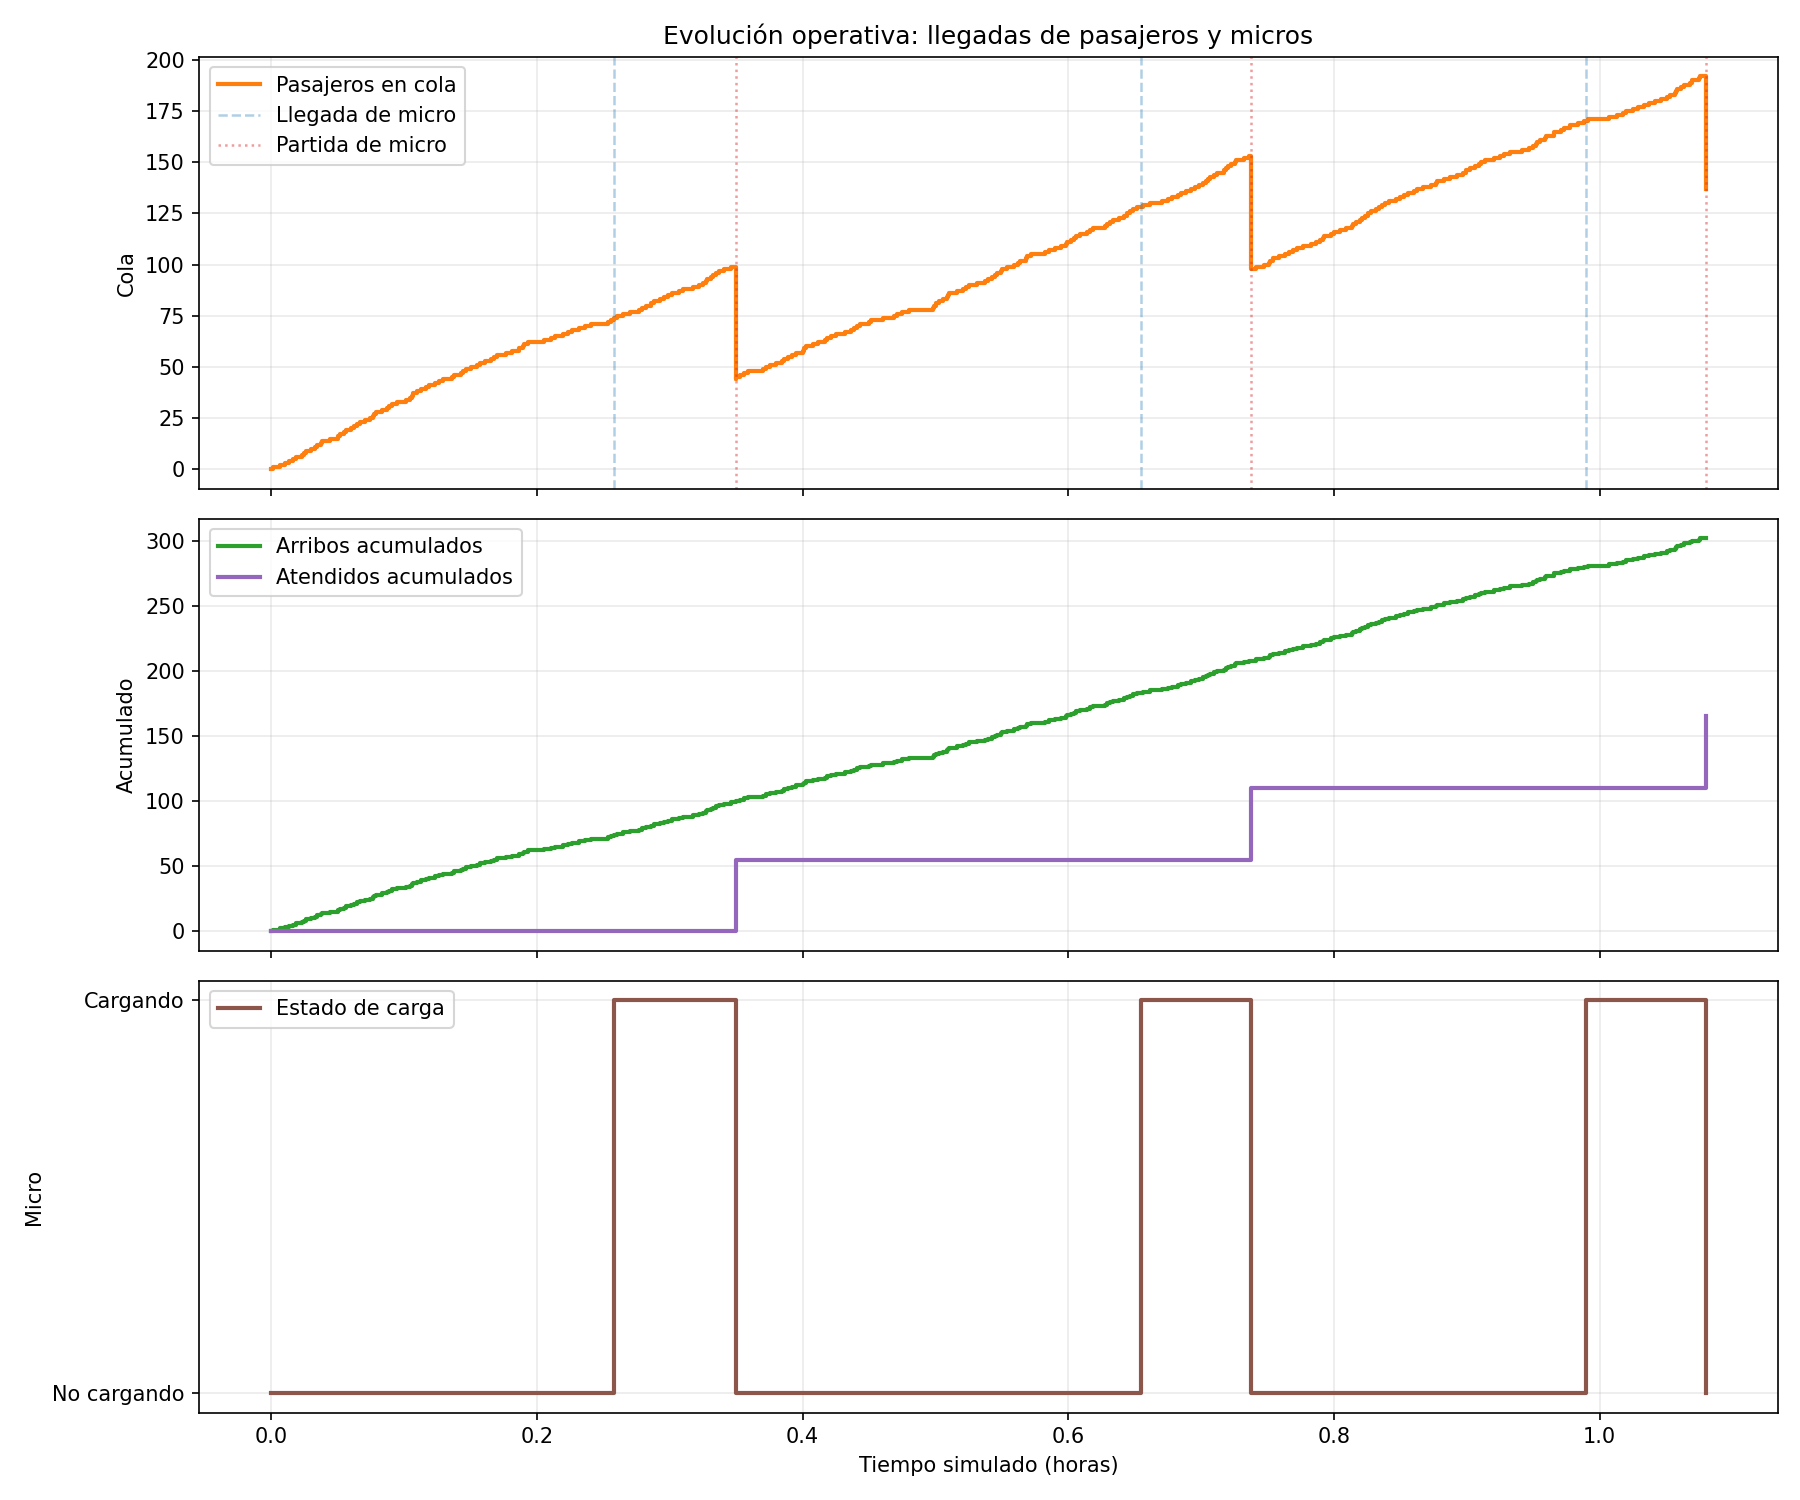
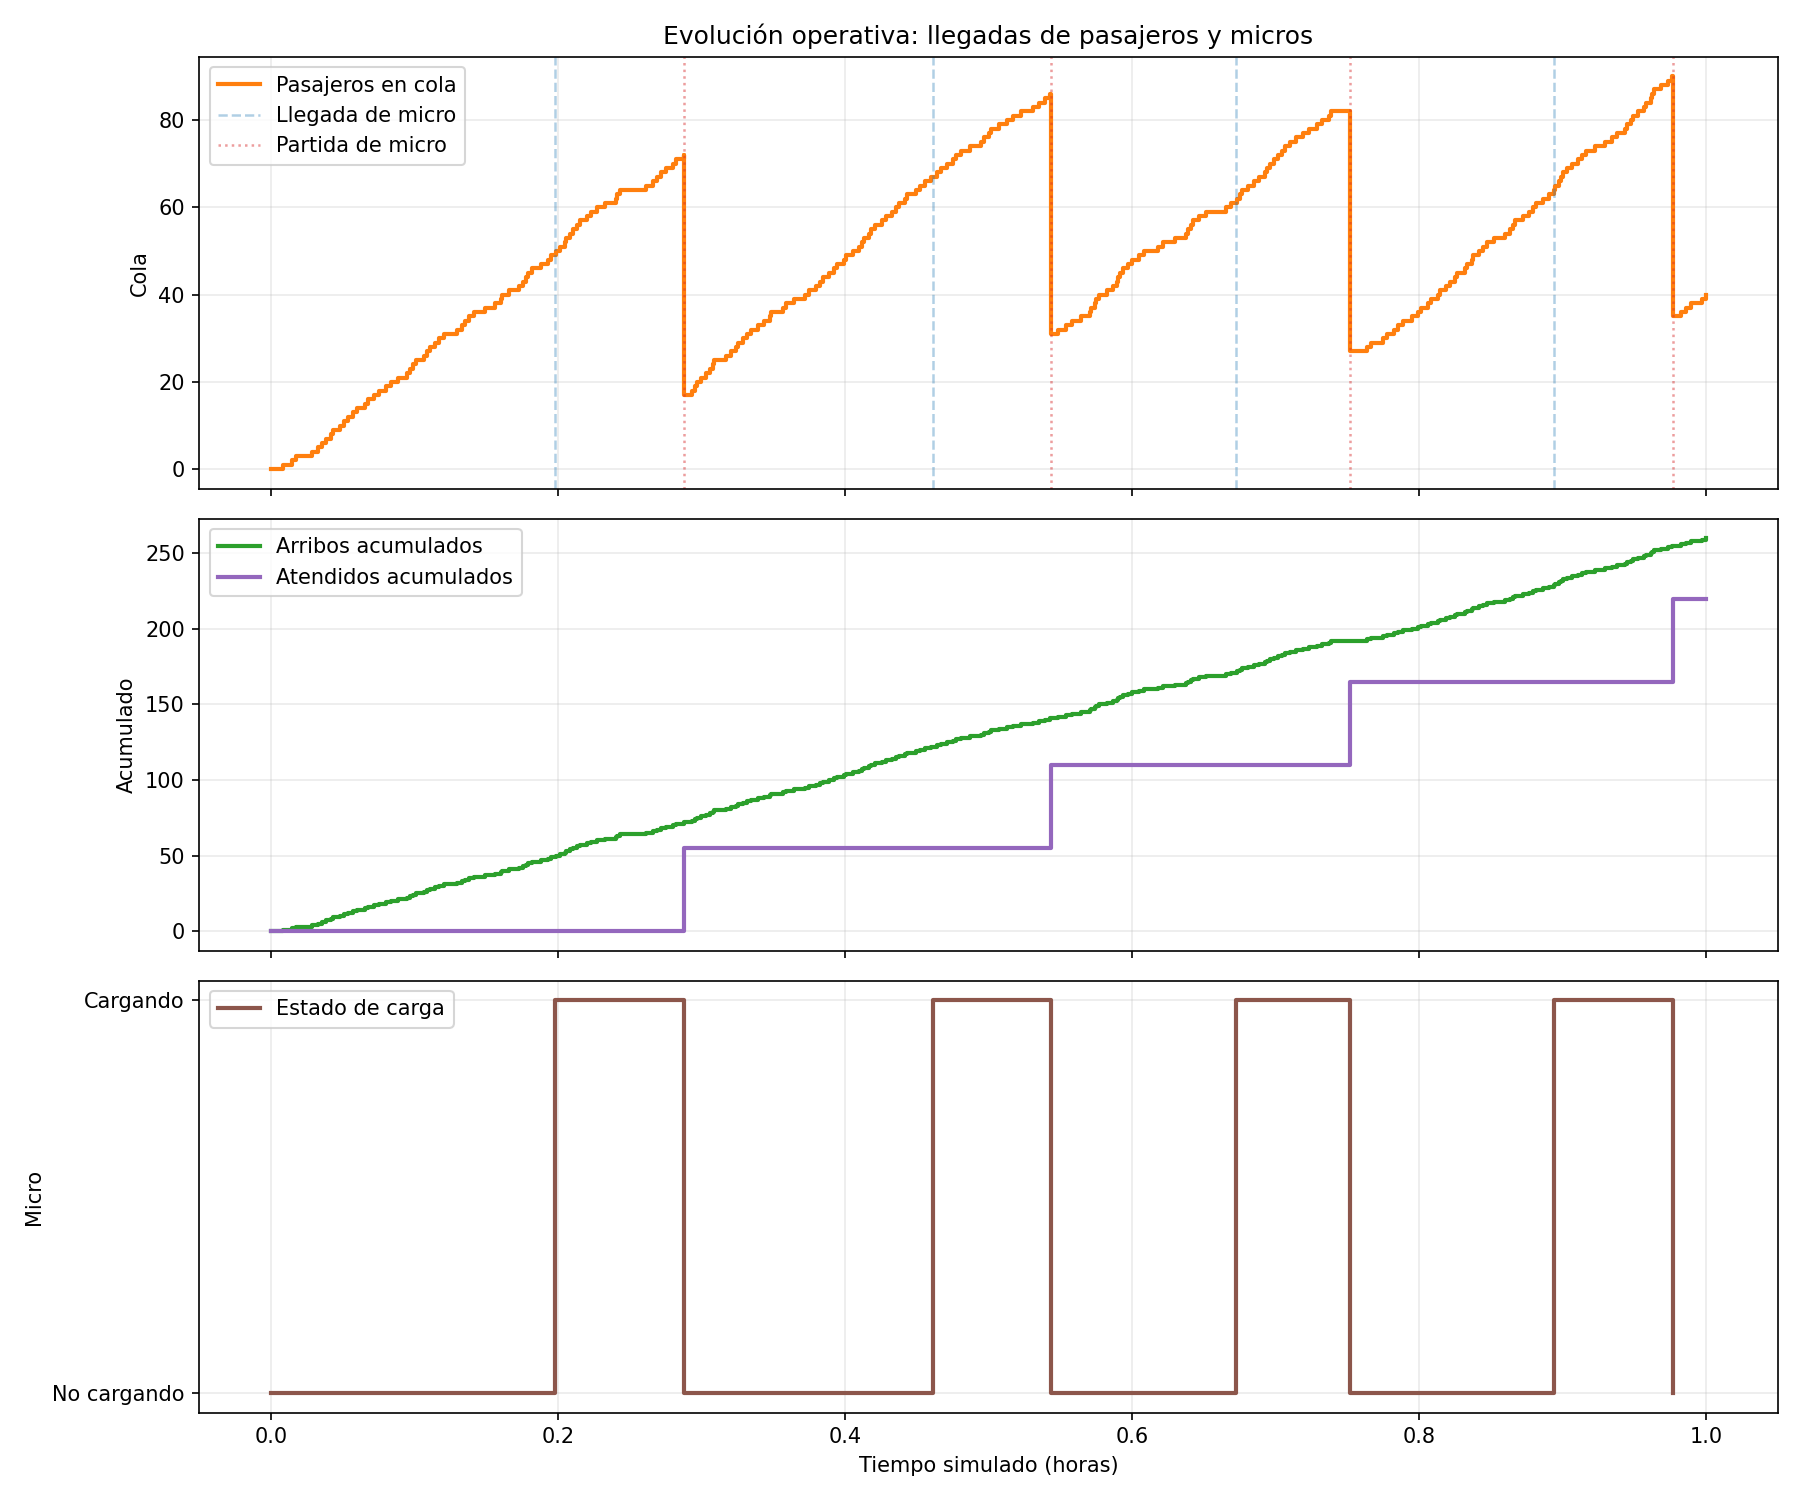
DoE 2^k

diff --git a/simulacion_terminal.py b/simulacion_terminal.py
@@ -8,11 +8,10 @@ import matplotlib.pyplot as plt
 from datetime import datetime
 
 
-# <-- Distribuciones -->
-def dagum_rv(k, alpha, beta, gamma=0):
-    """ Genera variable aleatoria de distribución Dagum """
+def burr_rv(k, alpha, beta, gamma=0):
+    """ Genera variable aleatoria de distribución Burr """
     u = np.random.uniform(0, 1)
-    x = beta * ((u**(-1/k) - 1)**(-1/alpha)) + gamma #Inversa de dagum
+    x = gamma + beta * (((1 - u)**(-1/k) - 1)**(1/alpha))
     return x
 
 
@@ -48,9 +47,7 @@ def gamma_3p_rv(alpha, beta, gamma):
     return max(x, 0)  
 
 
-# <-- Parametros base de la simulacion -->
-
-LLEGADAS_PARAMS_BASE = {'k': 0.76795, 'alpha': 3.4325, 'beta': 12.669, 'gamma': 0}
+LLEGADAS_PARAMS_BASE = {'k': 1.1786, 'alpha': 2.9348, 'beta': 12.183, 'gamma': 0}
 
 SERVICIO_PARAMS_BASE = {
     'alpha': 156.3,
@@ -67,37 +64,28 @@ REPOSICION_PARAMS_BASE = {
 }
 
 CAPACIDAD_MICRO = 55
-TIEMPO_SIMULACION = 3600  # 1 hora
-NUM_REPLICAS = 3  # Cantidad de réplicas por combinación factorial
+TIEMPO_SIMULACION = 3600
+NUM_REPLICAS = 3
 
 
-# <-- Niveles DoE (3 factores x 2 niveles) -->
-# Factor 1: Arribos (se modifica beta de Dagum: menor beta => menor tiempo entre llegadas => mayor tasa de arribos)
-# Factor 2: Servicio de carga (multiplicador de tiempo de carga Wakeby: menor factor => mayor tasa de servicio)
-# Factor 3: Reposición (multiplicador de tiempo de reposición Gamma: menor factor => mayor tasa de reposición)
 DOE_NIVELES = {
     'arribos': {
-        'bajo': 15.2,   # Menor tasa de arribos
-        'alto': 10.1    # Mayor tasa de arribos
+        'bajo': 15.2,
+        'alto': 10.1
     },
     'servicio': {
-        'bajo': 1.20,   # Servicio más lento
-        'alto': 0.80    # Servicio más rápido
+        'bajo': 1.20,
+        'alto': 0.80
     },
     'reposicion': {
-        'bajo': 1.20,   # Reposición más lenta
-        'alto': 0.80    # Reposición más rápida
+        'bajo': 1.20,
+        'alto': 0.80
     }
 }
 
-
-
-# <-- CLASES Y FUNCIONES DE LA SIMULACIÓN -->
-
 class TerminalMicros:
     """Clase para gestionar la terminal de micros"""
-   
-    ## Constructor
+
     def __init__(self, env):
         self.env = env
         self.cola = []
@@ -105,14 +93,12 @@ class TerminalMicros:
         self.pasajeros_atendidos = 0
         self.micros_despachados = 0
 
-        # Métricas DoE
         self.tiempos_entre_llegadas = []
         self.tiempos_espera = []
         self.tiempo_total_servicio = []
         self.tiempos_reposicion = []
         self.micro_cargando = False
 
-        # Trazas para gráficos operativos (no DoE)
         self.eventos_tiempo = [0.0]
         self.hist_cola = [0]
         self.hist_arribos_acum = [0]
@@ -135,8 +121,7 @@ def llegada_pasajeros(env, terminal, llegadas_params):
     contPasajeros = 0
     
     while True:
-        # Generar tiempo entre llegadas con parámetros del escenario DoE
-        tiempo_entre_llegadas = dagum_rv(
+        tiempo_entre_llegadas = burr_rv(
             llegadas_params['k'],
             llegadas_params['alpha'],
             llegadas_params['beta'],
@@ -146,7 +131,6 @@ def llegada_pasajeros(env, terminal, llegadas_params):
         
         yield env.timeout(tiempo_entre_llegadas)
         
-        # Registrar llegada del pasajero
         contPasajeros += 1
         terminal.total_llegadas += 1
         tiempo_llegada = env.now
@@ -177,25 +161,22 @@ def despacho_micros(env, terminal, servicio_params, reposicion_params, factor_se
             terminal.tiempo_total_servicio.append(0)
             continue
 
-        # El micro permanece en plataforma durante el servicio total.
-        # Asi tambien pueden subir pasajeros que lleguen mientras esta cargando.
+        # Durante la carga siguen llegando pasajeros a la cola.
         tiempo_servicio_total = wakeby_rv(**servicio_params) * factor_servicio
         terminal.micro_cargando = True
         terminal.estado_carga_t.append(env.now)
         terminal.estado_carga_y.append(1)
 
-        # Simular el tiempo de carga antes de cerrar puertas.
         yield env.timeout(tiempo_servicio_total)
         terminal.micro_cargando = False
         terminal.estado_carga_t.append(env.now)
         terminal.estado_carga_y.append(0)
 
-        # Servicio FIFO al finalizar la carga: suben hasta capacidad.
+        # Al finalizar la carga, suben en FIFO hasta capacidad.
         pasajeros_a_subir = min(len(terminal.cola), CAPACIDAD_MICRO)
         pasajeros_subiendo = terminal.cola[:pasajeros_a_subir]
         terminal.cola = terminal.cola[pasajeros_a_subir:]
-        
-        # Calcular tiempo de espera de cada pasajero
+
         for pasajero in pasajeros_subiendo:
             tiempo_espera = env.now - pasajero['tiempo_llegada']
             terminal.tiempos_espera.append(tiempo_espera)
@@ -205,19 +186,12 @@ def despacho_micros(env, terminal, servicio_params, reposicion_params, factor_se
         terminal.tiempos_partida_micro.append(env.now)
         terminal.registrar_evento_cola()
 
-
-
-# <-- FUNCIÓN PRINCIPAL DE SIMULACIÓN -->
-
-
 def ejecutar_escenario(llegadas_params, servicio_params, reposicion_params, factor_servicio, factor_reposicion):
     """Ejecuta un escenario individual y devuelve métricas DoE."""
 
-    # Creamos entorno de simulación y terminal
     env = simpy.Environment()
     terminal = TerminalMicros(env)
-    
-    # Iniciar procesos
+
     env.process(llegada_pasajeros(env, terminal, llegadas_params))
     env.process(despacho_micros(env, terminal, servicio_params, reposicion_params, factor_servicio, factor_reposicion))
     
@@ -231,7 +205,6 @@ def ejecutar_escenario(llegadas_params, servicio_params, reposicion_params, fact
             break
         env.step()
     
-    # Cálculo de métricas del DoE (solo factores + variable respuesta)
     tiempos_servicio_validos = [t for t in terminal.tiempo_total_servicio if t > 0]
     tiempo_llegadas_promedio = np.mean(terminal.tiempos_entre_llegadas) if terminal.tiempos_entre_llegadas else 0
     tiempo_servicio_promedio = np.mean(tiempos_servicio_validos) if tiempos_servicio_validos else 0
@@ -290,24 +263,28 @@ def generar_grafico_operativo(terminal, resultados_dir):
 
 
 def ejecutar_doe():
-    """Ejecuta DoE 3^2 con réplicas 3."""
+    """Ejecuta DoE 2^3 + punto central con réplicas."""
 
     resultados = []
     corrida_idx = 0
 
-    for nivel_arribos, nivel_servicio, nivel_reposicion in product(['bajo', 'alto'], repeat=3):
+    escenarios_factoriales = list(product(['bajo', 'alto'], repeat=3))
+    escenarios = escenarios_factoriales + [('centro', 'centro', 'centro')]
+
+    for nivel_arribos, nivel_servicio, nivel_reposicion in escenarios:
         corrida_idx += 1
         for replica in range(1, NUM_REPLICAS + 1):
             print(f"Ejecutando corrida {corrida_idx}, replica {replica}/{NUM_REPLICAS}: "
-                  f"A_nivel={1 if nivel_arribos=='bajo' else -1}, "
-                  f"S_nivel={1 if nivel_servicio=='bajo' else -1}, "
-                  f"R_nivel={1 if nivel_reposicion=='bajo' else -1}")
+                  f"A_nivel={1 if nivel_arribos=='bajo' else (-1 if nivel_arribos=='alto' else 0)}, "
+                  f"S_nivel={1 if nivel_servicio=='bajo' else (-1 if nivel_servicio=='alto' else 0)}, "
+                  f"R_nivel={1 if nivel_reposicion=='bajo' else (-1 if nivel_reposicion=='alto' else 0)}")
 
             llegadas_params = dict(LLEGADAS_PARAMS_BASE)
-            llegadas_params['beta'] = DOE_NIVELES['arribos'][nivel_arribos]
+            if nivel_arribos != 'centro':
+                llegadas_params['beta'] = DOE_NIVELES['arribos'][nivel_arribos]
 
-            factor_servicio = DOE_NIVELES['servicio'][nivel_servicio]
-            factor_reposicion = DOE_NIVELES['reposicion'][nivel_reposicion]
+            factor_servicio = DOE_NIVELES['servicio'][nivel_servicio] if nivel_servicio != 'centro' else 1.0
+            factor_reposicion = DOE_NIVELES['reposicion'][nivel_reposicion] if nivel_reposicion != 'centro' else 1.0
 
             metricas, _ = ejecutar_escenario(
                 llegadas_params=llegadas_params,
@@ -317,24 +294,20 @@ def ejecutar_doe():
                 factor_reposicion=factor_reposicion,
             )
 
-            # Agregar información codificada de factores, valores reales y replica
             metricas['corrida'] = corrida_idx
             metricas['replica'] = replica
-            metricas['A_nivel'] = 1 if nivel_arribos == 'bajo' else -1
-            metricas['S_nivel'] = 1 if nivel_servicio == 'bajo' else -1
-            metricas['R_nivel'] = 1 if nivel_reposicion == 'bajo' else -1
-            # Valores reales: usar los promedios simulados
+            metricas['A_nivel'] = 1 if nivel_arribos == 'bajo' else (-1 if nivel_arribos == 'alto' else 0)
+            metricas['S_nivel'] = 1 if nivel_servicio == 'bajo' else (-1 if nivel_servicio == 'alto' else 0)
+            metricas['R_nivel'] = 1 if nivel_reposicion == 'bajo' else (-1 if nivel_reposicion == 'alto' else 0)
             metricas['A'] = metricas['tiempo_llegadas_promedio_segundos']
             metricas['S'] = metricas['tiempo_servicio_promedio_segundos']
             metricas['R'] = metricas['tiempo_reposicion_promedio_segundos']
 
             resultados.append(metricas)
 
-    # Guardado de resultados DoE
     resultados_dir = os.path.join(os.path.dirname(__file__), "resultados")
     os.makedirs(resultados_dir, exist_ok=True)
 
-    # Limpia artefactos DoE antiguos que ya no se usan.
     for obsolete in ["doe_3factores_2niveles.csv", "graficos_doe.png"]:
         obsolete_path = os.path.join(resultados_dir, obsolete)
         if os.path.exists(obsolete_path):
@@ -342,10 +315,8 @@ def ejecutar_doe():
 
     df_resultados = pd.DataFrame(resultados)
     
-    # Reordenar columnas según estructura recomendada
     cols_orden = ['corrida', 'replica', 'A_nivel', 'S_nivel', 'R_nivel', 'A', 'S', 'R',
                   'tiempo_espera_cola_promedio_segundos']
-    # Renombrar última columna a Wq
     df_resultados = df_resultados[cols_orden]
     df_resultados = df_resultados.rename(columns={'tiempo_espera_cola_promedio_segundos': 'Wq'})
     
@@ -354,13 +325,11 @@ def ejecutar_doe():
         df_resultados.to_excel(excel_path, index=False)
         print(f"\nResultados DoE guardados en: {excel_path}")
     except PermissionError:
-        # Si el archivo está abierto en Excel/VS Code, guarda una copia con timestamp.
         ts = datetime.now().strftime("%Y%m%d_%H%M%S")
         excel_path = os.path.join(resultados_dir, f"doe_3factores_2niveles_r{NUM_REPLICAS}_{ts}.xlsx")
         df_resultados.to_excel(excel_path, index=False)
         print(f"\nResultados DoE guardados en: {excel_path} (copía con timestamp)")
 
-    # Gráfico operativo no-DoE para visualizar llegadas y micros.
     _, terminal_ref = ejecutar_escenario(
         llegadas_params=LLEGADAS_PARAMS_BASE,
         servicio_params=SERVICIO_PARAMS_BASE,
